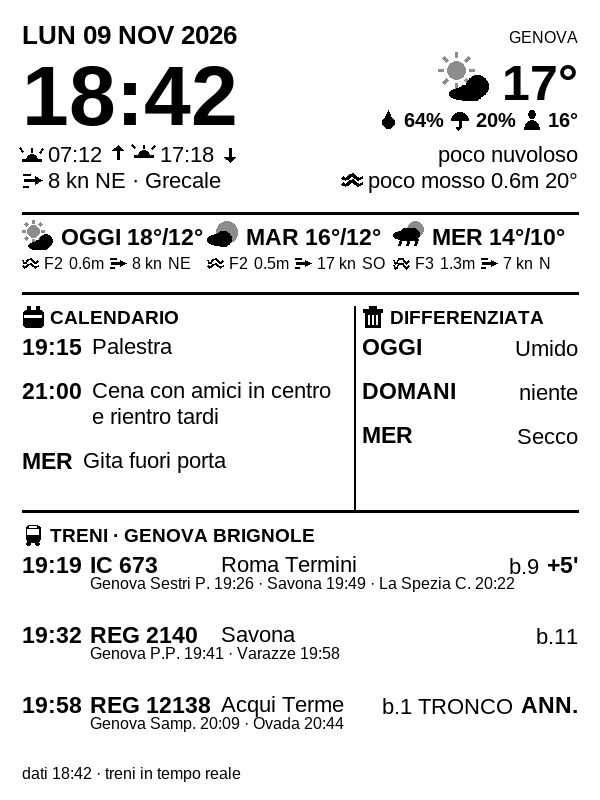
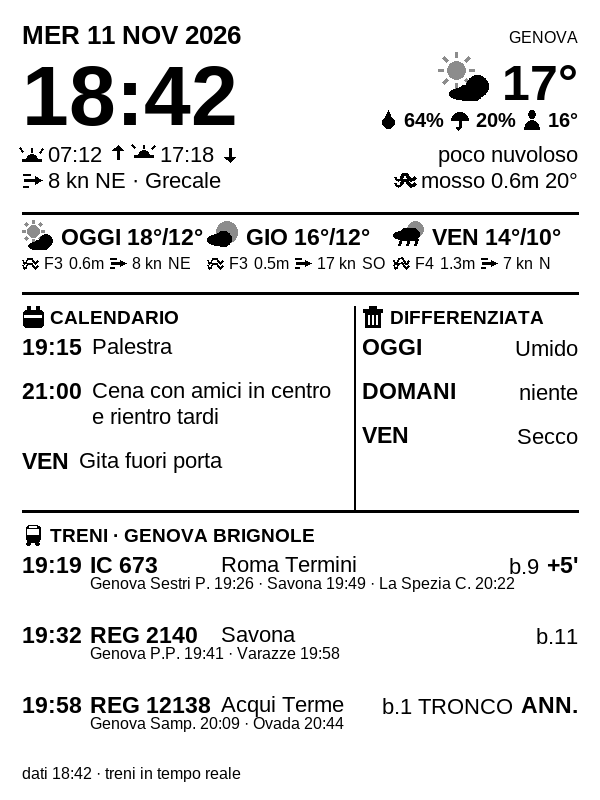
fix: classify the sea state with the official Douglas scale
The table was shifted by one grade: 0.10-0.50 m read as «quasi calmo»
instead of «poco mosso», and grades 8-9 were missing. Thresholds are now
the official ones (0.10 / 0.50 / 1.25 / 2.50 / 4 / 6 / 9 / 14 m),
classified on the data value instead of the rounded one, with «calmo» up
to 2 cm (the model floor) and heights below 10 cm shown in centimetres.

diff --git a/kindle_dashboard/sources/marine.py b/kindle_dashboard/sources/marine.py
@@ -20,19 +20,27 @@ API_URL = "https://marine-api.open-meteo.com/v1/marine"
 _CURRENT_FIELDS = "wave_height,sea_surface_temperature"
 _DAILY_FIELDS = "wave_height_max"
 
-# Scala Douglas: soglia superiore in metri, forza, descrizione italiana e famiglia di glifo.
-# Una sola tabella e tre letture (forza, parola, glifo): la striscia usa la forza perché in una
-# colonna da 185 px "F3" costa 15 px contro i 75 di "poco mosso".
+# Scala Douglas ufficiale (gradi 0-9): soglia inferiore in metri, grado, parola e famiglia di
+# glifo. Una sola tabella e tre letture (forza, parola, glifo): la striscia usa la forza perché in
+# una colonna da 185 px "F3" costa 15 px contro i 75 di "poco mosso". Il confronto è ">=", quindi
+# 0.50 m è già "mosso" (F3) e 0.10 m è già "poco mosso" (F2). I due estremi stanno fuori tabella
+# perché il bollettino li scrive aperti: oltre 14 m c'è il grado 9, e il grado 0 è "fino a 2 cm
+# inclusi" — Open-Meteo Marine non scende sotto 0.02 m, quindi il fondo scala del modello *è* il
+# suo "0 m".
 _STATES: tuple[tuple[float, int, str, str], ...] = (
-    (0.1, 0, "calmo", "sea_calm"),
-    (0.5, 1, "quasi calmo", "sea_calm"),
-    (1.25, 2, "poco mosso", "sea_slight"),
-    (2.5, 3, "mosso", "sea_moderate"),
-    (4.0, 4, "molto mosso", "sea_rough"),
-    (6.0, 5, "agitato", "sea_rough"),
-    (9.0, 6, "molto agitato", "sea_rough"),
+    (0.10, 2, "poco mosso", "sea_slight"),
+    (0.50, 3, "mosso", "sea_moderate"),
+    (1.25, 4, "molto mosso", "sea_rough"),
+    (2.50, 5, "agitato", "sea_rough"),
+    (4.00, 6, "molto agitato", "sea_rough"),
+    (6.00, 7, "grosso", "sea_rough"),
+    (9.00, 8, "molto grosso", "sea_rough"),
 )
-_ROUGHEST = (7, "grosso", "sea_rough")
+_CALM = (0, "calmo", "sea_calm")
+_CALM_TO_M = 0.02
+_QUASI_CALM = (1, "quasi calmo", "sea_calm")
+_TEMPESTUOUS = (9, "tempestoso", "sea_rough")
+_TEMPESTUOUS_FROM_M = 14.0
 
 
 def state_force(height: float) -> int:
@@ -41,7 +49,7 @@ def state_force(height: float) -> int:
 
 
 def state_label(height: float) -> str:
-    """Descrizione italiana dello stato del mare (scala Douglas)."""
+    """Descrizione italiana dello stato del mare (scala Douglas ufficiale)."""
     return _state(height)[1]
 
 
@@ -51,21 +59,37 @@ def state_kind(height: float) -> str:
 
 
 def height_label(height: float) -> str:
-    """Altezza d'onda compatta per lo schermo: ``0.6m``."""
+    """Altezza d'onda compatta per lo schermo: ``0.6m``, ma ``8cm`` sotto i 10 cm.
+
+    Le fasce dei gradi 1 e 2 sono larghe 10 e 40 cm, quindi un decimale in metri basta da 0,10 m in
+    su; sotto, il modello lavora a passi da 2 cm e ``0.08 m`` stampato ``0.1m`` uscirebbe dalla
+    fascia "quasi calmo" (< 0,10 m). In centimetri il numero resta esatto e costa due caratteri in
+    meno, che nella colonna da 185 px sono la direzione del vento.
+    """
+    if height < 0.10:
+        return f"{round(height * 100)}cm"
     return f"{height:.1f}m"
 
 
 def _state(height: float) -> tuple[int, str, str]:
-    """Classifica sull'altezza arrotondata a un decimale, la stessa che si legge sul pannello.
+    """Classifica l'altezza del dato, non quella stampata sul pannello.
 
-    Altrimenti ``0.48 m`` verrebbe scritto ``0.5m`` e classificato "quasi calmo", mentre ``0.50 m``
-    è "poco mosso": due stati diversi dietro lo stesso numero mostrato.
+    Le fasce dei gradi 0-2 sono larghe 10 e 40 cm, meno di un passo di visualizzazione:
+    arrotondando, "quasi calmo" sarebbe irraggiungibile (0,08 m si scrive ``0.1m``) e i primi
+    5 cm di ogni fascia finirebbero nel grado superiore (0,46 m letto "mosso"). Il grado 0 arriva
+    a 0,02 m inclusi perché è il minimo che il modello sa rappresentare: chiamarlo "calmo" è più
+    onesto che far apparire "quasi calmo" l'unico valore di fondo scala.
     """
-    shown = round(height, 1)
-    for limit, force, label, kind in _STATES:
-        if shown < limit:
-            return force, label, kind
-    return _ROUGHEST
+    if height <= _CALM_TO_M:
+        return _CALM
+    if height > _TEMPESTUOUS_FROM_M:
+        return _TEMPESTUOUS
+    chosen = _QUASI_CALM
+    for lower, force, label, kind in _STATES:
+        if height < lower:
+            break
+        chosen = (force, label, kind)
+    return chosen
 
 
 def fetch_payload(

diff --git a/tests/test_sea.py b/tests/test_sea.py
@@ -47,16 +47,31 @@ def test_parse_reports_an_empty_daily_block(load_json):
 @pytest.mark.parametrize(
     ("height", "force", "label", "kind"),
     [
+        # Grado 0: 0-2 cm inclusi. Il modello non scende sotto 0.02 m, quindi il suo fondo scala
+        # coincide con il "calmo" del bollettino.
         (0.0, 0, "calmo", "sea_calm"),
-        (0.3, 1, "quasi calmo", "sea_calm"),
-        (0.48, 2, "poco mosso", "sea_slight"),
-        (0.5, 2, "poco mosso", "sea_slight"),
-        (1.2, 2, "poco mosso", "sea_slight"),
-        (1.3, 3, "mosso", "sea_moderate"),
-        (3.0, 4, "molto mosso", "sea_rough"),
-        (5.0, 5, "agitato", "sea_rough"),
-        (7.0, 6, "molto agitato", "sea_rough"),
-        (10.0, 7, "grosso", "sea_rough"),
+        (0.01, 0, "calmo", "sea_calm"),
+        (0.02, 0, "calmo", "sea_calm"),
+        (0.04, 1, "quasi calmo", "sea_calm"),
+        (0.08, 1, "quasi calmo", "sea_calm"),
+        # Ogni fascia è verificata sui due lati del confine.
+        (0.10, 2, "poco mosso", "sea_slight"),
+        (0.49, 2, "poco mosso", "sea_slight"),
+        (0.50, 3, "mosso", "sea_moderate"),
+        (1.24, 3, "mosso", "sea_moderate"),
+        (1.25, 4, "molto mosso", "sea_rough"),
+        (2.49, 4, "molto mosso", "sea_rough"),
+        (2.50, 5, "agitato", "sea_rough"),
+        (3.99, 5, "agitato", "sea_rough"),
+        (4.00, 6, "molto agitato", "sea_rough"),
+        (5.99, 6, "molto agitato", "sea_rough"),
+        (6.00, 7, "grosso", "sea_rough"),
+        (8.99, 7, "grosso", "sea_rough"),
+        (9.00, 8, "molto grosso", "sea_rough"),
+        # Il bollettino scrive "9 - 14 m" per il grado 8 e "> 14 m" per il 9: 14.00 chiude l'8.
+        (14.00, 8, "molto grosso", "sea_rough"),
+        (14.01, 9, "tempestoso", "sea_rough"),
+        (20.0, 9, "tempestoso", "sea_rough"),
     ],
 )
 def test_douglas_scale(height, force, label, kind):
@@ -65,9 +80,34 @@ def test_douglas_scale(height, force, label, kind):
     assert marine.state_kind(height) == kind
 
 
+def test_scale_matches_the_official_table():
+    """Soglie e parole della scala ufficiale: un grado sfasato deve fare rosso il gate."""
+    assert [lower for lower, _, _, _ in marine._STATES] == [
+        0.10, 0.50, 1.25, 2.50, 4.00, 6.00, 9.00,
+    ]
+    assert [force for _, force, _, _ in marine._STATES] == list(range(2, 9))
+    assert [label for _, _, label, _ in marine._STATES] == [
+        "poco mosso",
+        "mosso",
+        "molto mosso",
+        "agitato",
+        "molto agitato",
+        "grosso",
+        "molto grosso",
+    ]
+    assert marine._QUASI_CALM[0] == 1
+    assert marine._CALM_TO_M == 0.02
+    assert marine._TEMPESTUOUS[0] == 9
+    assert marine._TEMPESTUOUS_FROM_M == 14.0
+
+
 def test_height_label_is_compact():
     assert marine.height_label(0.48) == "0.5m"
     assert marine.height_label(2.0) == "2.0m"
+    # Sotto i 10 cm si passa ai centimetri: il numero resta esatto e non esce dalla fascia.
+    assert marine.height_label(0.02) == "2cm"
+    assert marine.height_label(0.08) == "8cm"
+    assert marine.height_label(0.10) == "0.1m"
 
 
 def test_fetch_payload_uses_the_location_coordinates(monkeypatch):

diff --git a/tests/test_render.py b/tests/test_render.py
@@ -575,9 +575,19 @@ def test_sea_day_row_uses_the_douglas_force():
 
     segments = _sea_day_segments(day, 17.3, 13)
 
-    assert segments[0].icon == "sea_moderate"
-    assert [segment.text for segment in segments if segment.text] == ["F3", "1.3m", "17 kn", "NNE"]
+    # 1.3 m è "molto mosso" (F4): la fascia va da 1.25 a 2.50 m.
+    assert segments[0].icon == "sea_rough"
+    assert [segment.text for segment in segments if segment.text] == ["F4", "1.3m", "17 kn", "NNE"]
     assert segments[-1].required is False
+
+
+def test_flat_sea_shows_centimetres_and_is_quasi_calmo():
+    sea = Sea(now=SeaNow(wave_height=0.08, water_temperature=20.6), days=())
+
+    segments = _sea_segments(sea)
+
+    assert segments[0].icon == "sea_calm"
+    assert [segment.text for segment in segments if segment.text][:2] == ["quasi calmo", "8cm"]
 
 
 def test_icon_is_centred_on_the_text_ink():

diff --git a/docs/technical-walkthrough.md b/docs/technical-walkthrough.md
@@ -189,13 +189,19 @@ daily=wave_height_max
 timezone=Europe/Rome, forecast_days=3
 ```
 
-`parse()` produce `SeaNow` + `SeaDay[]`. Lo **stato del mare** è la scala Douglas, in una tabella
-sola con tre letture: `state_force` (il grado, `F3` nella striscia), `state_label` (la parola,
-`mosso`, usata nell'header dove lo spazio c'è) e `state_kind` (la famiglia di glifo: `sea_calm`,
-`sea_slight`, `sea_moderate`, `sea_rough`). Le soglie sono in metri di altezza d'onda significativa
-(0.1 / 0.5 / 1.25 / 2.5 / 4 / 6 / 9) e si confrontano con l'altezza **arrotondata al decimale
-mostrato**: senza quel `round`, `0.48 m` verrebbe scritto `0.5m` e classificato "quasi calmo",
-mentre `0.50 m` è "poco mosso" — due stati diversi dietro lo stesso numero.
+`parse()` produce `SeaNow` + `SeaDay[]`. Lo **stato del mare** è la scala Douglas ufficiale (gradi
+0-9), in una tabella sola con tre letture: `state_force` (il grado, `F3` nella striscia),
+`state_label` (la parola, `mosso`, usata nell'header dove lo spazio c'è) e `state_kind` (la famiglia
+di glifo: `sea_calm`, `sea_slight`, `sea_moderate`, `sea_rough`). Le soglie sono in metri di altezza
+d'onda significativa — 0 / 0,10 / 0,50 / 1,25 / 2,50 / 4 / 6 / 9 / 14 — e si confrontano con
+l'altezza **del dato**: le fasce dei primi gradi sono larghe 10 e 40 cm, meno di un passo di
+visualizzazione, quindi arrotondare renderebbe "quasi calmo" irraggiungibile (0,08 m si scrive
+`0.1m`) e sposterebbe i primi 5 cm di ogni fascia nel grado superiore (0,46 m letto "mosso").
+L'arrotondamento resta solo nella stampa, dove serve: sotto i 10 cm compaiono i centimetri
+(`8cm`), perché il modello lavora a passi da 2 cm e `0.1m` uscirebbe dalla fascia "quasi calmo".
+Gli estremi seguono il bollettino, che li scrive aperti, ma con il fondo scala del modello: "calmo"
+arriva a 2 cm inclusi (Open-Meteo Marine non scende sotto 0,02 m, quindi il suo minimo *è* lo
+"0 m" della tabella) e "tempestoso" scatta oltre 14 m, mentre 14,00 m chiude ancora "molto grosso".
 
 Perché due grafie: nella colonna da 185 px `F3` costa 15 px contro i 75 di `poco mosso`, ed è
 l'unico modo per tenere insieme altezza d'onda, vento e direzione. Sulla riga grande dell'header,
@@ -698,7 +704,7 @@ subito (era già successo). Il totale lo stampa `python -m pytest -q`.
 | `ZoneInfoNotFoundError: 'Europe/Rome'` | Windows non ha il database IANA | dipendenza `tzdata` |
 | I test non importano il package | pytest non aggiunge la root al `sys.path` | `pythonpath = ["."]` |
 | L'ora si sovrappone al nome del treno | colonne a pixel fissi | larghezze da `getlength` |
-| `0.5m` mostrato come "quasi calmo" | soglie Douglas sul valore pieno, numero arrotondato a 1 decimale | classificazione sull'altezza arrotondata (`_state`) |
+| `0.5m` accanto a "quasi calmo" e gradi 8-9 assenti | tabella Douglas sfasata di un grado rispetto a quella ufficiale, classificata sull'altezza arrotondata | soglie 0,10 / 0,50 / 1,25 / 2,50 / 4 / 6 / 9 / 14 sul valore del dato, centimetri sotto i 10 cm (`_state`, `height_label`) |
 | `Image support is disabled in this FBInk build` | build MINIMAL di KOReader | `eips`, poi il browser |
 | `eips` esce con 0 e lo schermo resta bianco | il firmware non rende i PNG | passaggio al browser |
 | Schermo bianco + USB sparita + riavvio | framework fermato = niente modalità archivio | non fermare il framework |

diff --git a/README.md b/README.md
@@ -127,16 +127,21 @@ Con `sea.enabled = true` il pannello aggiunge le condizioni del mare dalle **ste
 `[location]`** (Open-Meteo Marine API, nessuna chiave):
 
 - nella riga del vento, nella colonna di destra: stato in parole, altezza d'onda e temperatura
-  dell'acqua (`poco mosso 0.6m 21°`);
-- sotto ciascuna delle tre giornate: **forza Douglas** (`F3`), altezza d'onda, vento massimo in nodi
-  e direzione (`F3 1.3m 21 kn NNE`). La forza costa 15 px contro i 75 di `poco mosso`: è ciò che fa
+  dell'acqua (`mosso 0.6m 21°`);
+- sotto ciascuna delle tre giornate: **forza Douglas** (`F4`), altezza d'onda, vento massimo in nodi
+  e direzione (`F4 1.3m 21 kn NNE`). La forza costa 15 px contro i 75 di `poco mosso`: è ciò che fa
   entrare altezza, unità e direzione nella colonna da 185 px.
 
-La scala Douglas è quella dei bollettini italiani: 0 calmo, 1 quasi calmo, 2 poco mosso, 3 mosso,
-4 molto mosso, 5 agitato, 6 molto agitato, 7 grosso. La classificazione usa l'altezza arrotondata al
-decimale mostrato, così `0.5m` non può comparire come "quasi calmo". Se la fonte cade il pannello
-mostra `mare n.d.` senza occupare una riga in più, e il footer segnala che alcuni dati vengono dalla
-cache. Per una località lontana dal mare conviene lasciare la sezione spenta.
+La scala Douglas è quella ufficiale dei bollettini, con le soglie a 0,10 / 0,50 / 1,25 / 2,50 / 4 /
+6 / 9 / 14 m: 0 calmo, 1 quasi calmo, 2 poco mosso, 3 mosso, 4 molto mosso, 5 agitato, 6 molto
+agitato, 7 grosso, 8 molto grosso, 9 tempestoso. Si classifica **l'altezza del dato**, non quella
+arrotondata: le prime fasce sono larghe 10 e 40 cm e arrotondando 0,46 m sarebbe finito in "mosso".
+Sotto i 10 cm l'altezza compare in centimetri (`8cm`), così il numero resta esatto e dentro la sua
+fascia; da 0,10 m in su basta un decimale (`0.5m`). Il grado 0 arriva a 2 cm inclusi: Open-Meteo
+Marine non scende sotto 0,02 m, quindi il suo valore di fondo scala è il "calmo" della tabella. Se
+la fonte cade il pannello mostra `mare n.d.` senza occupare una riga in più, e il footer segnala che
+alcuni dati vengono dalla cache. Per una località lontana dal mare conviene lasciare la sezione
+spenta.
 
 ### Stazione dei treni
 

diff --git a/AGENTS.md b/AGENTS.md
@@ -53,6 +53,13 @@ config.toml -> collect() -> PanelData -> render_panel() -> PNG / HTTP
    divergere e si legge subito a quale punto cardinale il nome è legato. Il mare viene dalle
    coordinate di `[location]`, non da una sezione con coordinate proprie, e la sua
    classificazione (forza Douglas, parola, glifo) è una tabella sola in `sources/marine.py`.
+   I gradi sono quelli ufficiali (0-9, soglie 0,10 / 0,50 / 1,25 / 2,50 / 4 / 6 / 9 / 14 m) e si
+   classificano sull'altezza **del dato**, non su quella arrotondata: le prime fasce sono larghe
+   10 e 40 cm, quindi un `round` renderebbe irraggiungibile «quasi calmo» e sposterebbe 5 cm per
+   fascia nel grado superiore. Gli estremi stanno fuori tabella: «calmo» fino a 2 cm inclusi (il
+   modello non scende sotto 0,02 m, quindi il suo fondo scala è lo «0 m» della tabella) e
+   «tempestoso» oltre 14 m. L'arrotondamento resta nella sola stampa, e sotto i 10 cm
+   `height_label` mostra i centimetri (`8cm`) perché il modello lavora a passi da 2 cm.
 9. **Le righe miste testo+icona passano da `_draw_inline`**: i pezzi sono `_Segment` con `required`
    falso quando possono cedere (temperatura dell'acqua, nome del vento, frecce di alba/tramonto).
    Larghezze sempre da `font.getlength`, mai pixel scelti a occhio, e le icone si allineano al
